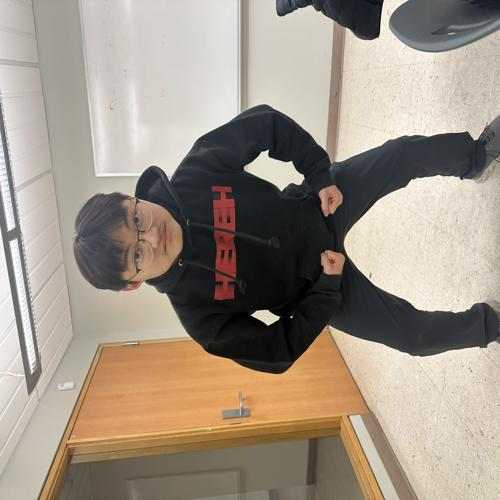
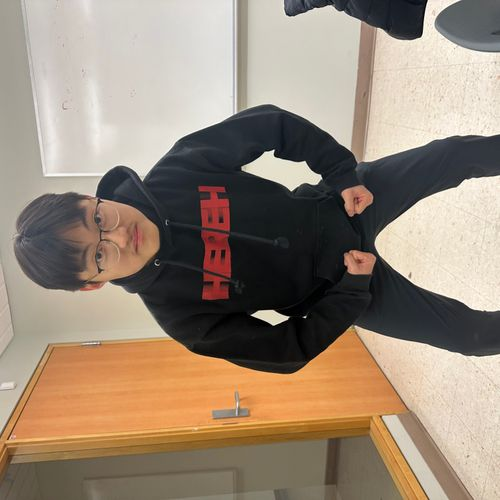
its js now

diff --git a/glass.js b/glass.js
@@ -1,0 +1,101 @@
+import express from 'express';
+import sharp from 'sharp';
+import fs from 'fs';
+import path from 'path';
+import { Anthropic } from '@anthropic-ai/sdk';
+import { fileURLToPath } from 'url';
+import { dirname } from 'path';
+
+const app = express();
+
+// Initialize Anthropic client
+const client = new Anthropic();
+
+// Get the current directory name (like __dirname)
+const __filename = fileURLToPath(import.meta.url);
+const __dirname = dirname(__filename);
+
+// Function to resize an image using sharp
+async function resizeImage(inputPath, outputPath, targetSize = { width: 500, height: 500 }) {
+    try {
+        await sharp(inputPath)
+            .resize(targetSize.width, targetSize.height)
+            .toFile(outputPath);
+        console.log(`Image resized and saved to ${outputPath}`);
+    } catch (err) {
+        console.error("Error resizing image:", err);
+    }
+}
+
+// Function to encode image to Base64
+function encodeImageToBase64(imagePath) {
+    const imageData = fs.readFileSync(imagePath);
+    return imageData.toString('base64');
+}
+
+// Function to send image to Claude
+async function sendImageToClaude(outputImagePath, apiKey) {
+    const imgBase64 = encodeImageToBase64(outputImagePath);
+    const image1MediaType = 'image/jpeg';
+    const message = 'I did not get anything';
+    const anthropic = new Anthropic({
+        apiKey: apiKey, // defaults to process.env["ANTHROPIC_API_KEY"]
+      });
+    try {
+        // Send request to Claude AI
+        const response = await anthropic.messages.stream({
+            messages: [
+                {
+                    role: 'user',
+                    content: [
+                        {
+                            type: 'image',
+                            source: {
+                                type: 'base64',
+                                media_type: image1MediaType,
+                                data: imgBase64,
+                            },
+                        },
+                        {
+                            type: 'text',
+                            text: "You are an assistant for the visually impaired. Your job is to describe the scenery showed in the image so they can get a good idea of what their surroundings are.",
+                        },
+                    ],
+                },
+            ],
+            model: 'claude-3-5-sonnet-20241022',
+            max_tokens: 1024,
+        }).on('text', (text) => {
+            console.log(text);
+            return text;
+        });
+    } catch (err) {
+        console.error("Error sending image to Claude:", err);
+    }
+}
+
+// Define routes for the Express server
+app.get('/', (req, res) => {
+    res.send("Welcome to the Express server!");
+});
+
+app.get('/query', async (req, res) => {
+    const inputImagePath = path.join(__dirname, 'images', 'alex.jpeg');
+    const outputImagePath = path.join(__dirname, 'images', 'resized_image.jpeg');
+
+    // Resize the image
+    await resizeImage(inputImagePath, outputImagePath);
+
+    // Fetch the Claude API key from environment variables
+    const apiKey = process.env.CLAUDE_KEY;  // Ensure your API key is in the environment variables
+
+    // Send the resized image to Claude AI
+    const response = await sendImageToClaude(outputImagePath, apiKey);
+
+    res.send(response);
+});
+
+// Start the server
+app.listen(80, () => {
+    console.log('Server is running on port 80');
+});

diff --git a/image_processor.py b/image_processor.py
@@ -35,13 +35,12 @@ def send_image_to_claude(output_image_path, api_key):
     :param api_key: Claude API key.
     :return: Response from Claude AI.
     """
-    client = anthropic.Anthropic(api_key=api_key)
     img_base64 = encode_image_to_base64(output_image_path)
-    
     image1_media_type = 'image/jpeg'
-    message = client.messages.create(
-        model="claude-3-5-sonnet-20241022",
-        max_tokens=2000,
+    message = 'I did not get anything'
+    client = anthropic.Anthropic(api_key=api_key)
+    with client.messages.stream(
+        max_tokens=1024,
         messages=[
             {
                 "role": "user",
@@ -61,7 +60,19 @@ def send_image_to_claude(output_image_path, api_key):
                 ],
             }
         ],
-    )
+        model="claude-3-5-sonnet-20241022",
+    ) as stream:
+        for text in stream.text_stream:
+            print(text, end="", flush=True)
+            if (message == 'I did not get anything'):
+                message = text
+            else:
+                message += text
+    print()
+    print()
+    for i in stream:
+        print('this is the stuff you want')
+    
     return message
 
 # Example usage:

diff --git a/glasses.py b/glasses.py
@@ -10,17 +10,6 @@ glasses = Flask(__name__)
 def home():
     return "Welcome to the Flask web server!"
 
-# Define a route that listens for POST requests
-@glasses.route('/receive', methods=['POST'])
-def receive():
-    # Get JSON data sent in the POST request
-    data = request.get_json()
-
-    if data:
-        return jsonify({"status": "success", "received_data": data}), 200
-    else:
-        return jsonify({"status": "error", "message": "No data received"}), 400
-
 # Define a route that listens for GET requests with query parameters
 @glasses.route('/query', methods=['GET'])
 def query():
@@ -37,6 +26,7 @@ def query():
     api_key = os.environ["CLAUDE_KEY"]
     response = send_image_to_claude(output_image_path, api_key)
     print(response)
+    
     return ''
 
 
